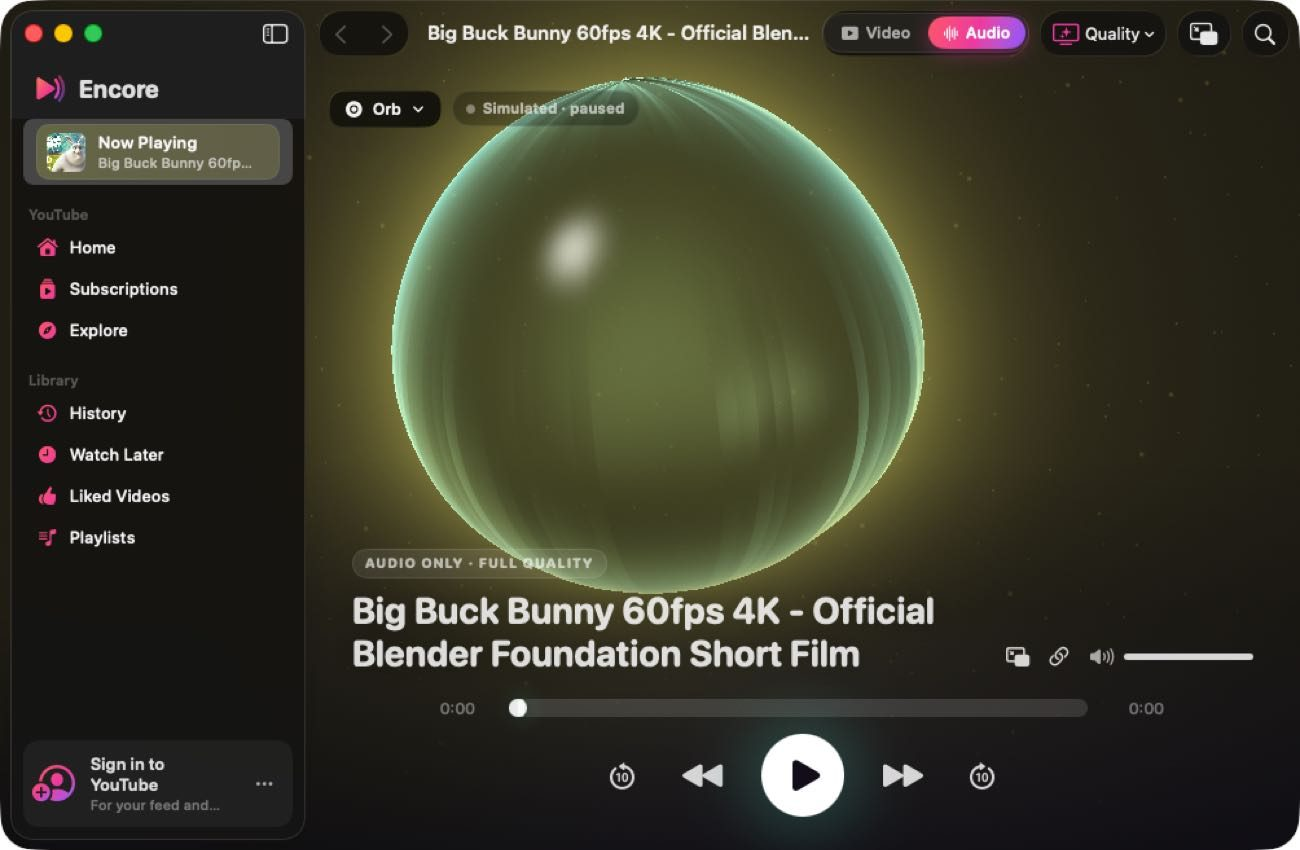
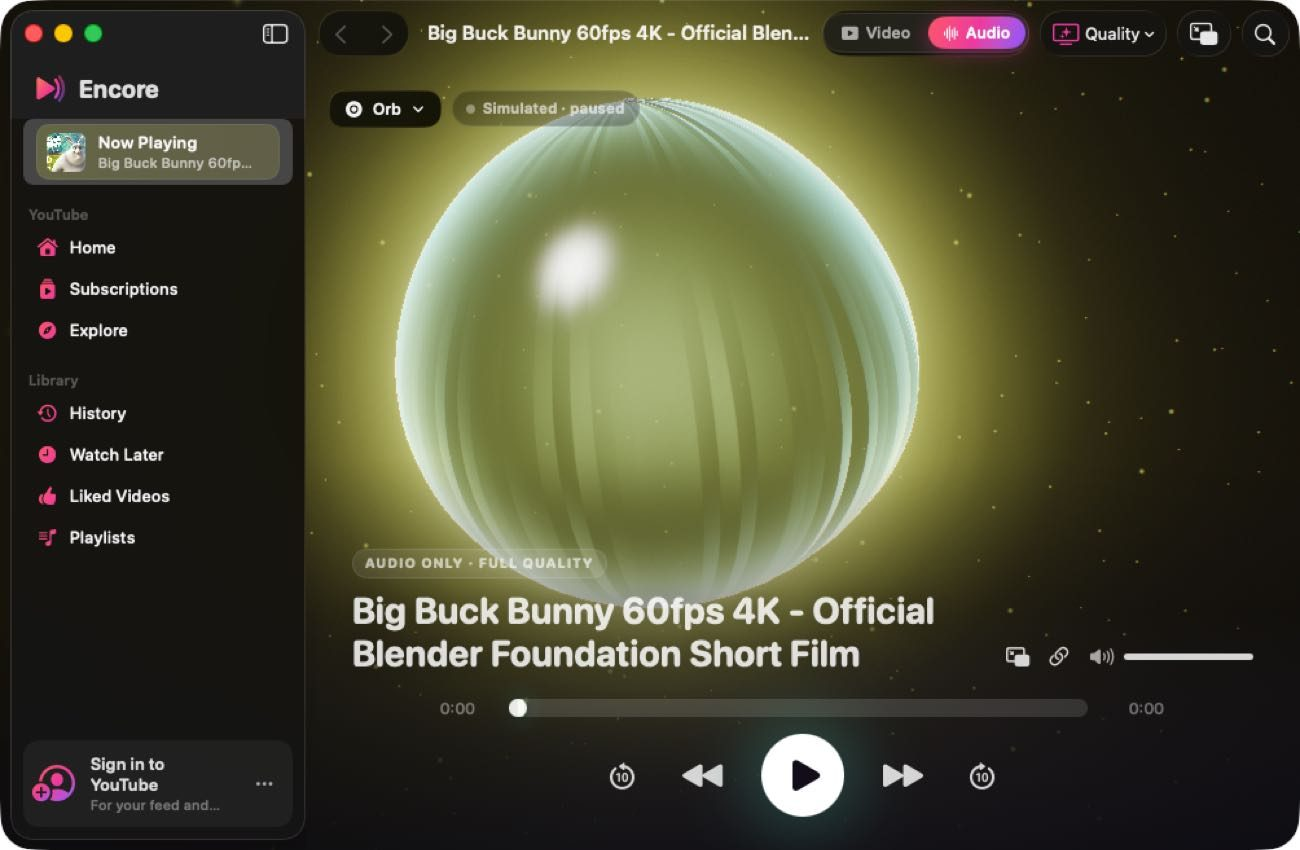
README, research notes and release notes for the new visualiser pipeline
Claude-Session: https://claude.ai/code/session_01Dq9uaYLZ14tYd3nuL5CVKq

diff --git a/README.md b/README.md
@@ -2,19 +2,17 @@
 
 <h1 align="center">Encore</h1>
 <p align="center"><b>A native YouTube player for macOS.</b><br>
-Media keys always work, even with every window closed. Video and audio modes at the highest quality YouTube offers, eight calm visualisers that move with the music, a menu bar player and a floating mini player.</p>
+Media keys always work, even with every window closed. Video and audio modes at the highest quality YouTube offers, ten visualisers that move with the music, a menu bar player and a floating mini player.</p>
 
 ---
 
 <p align="center">
-  <img src="docs/screenshots/audio-aurora.jpg" width="49%" alt="Audio mode with the Aurora visualiser">
-  <img src="docs/screenshots/audio-silk.jpg" width="49%" alt="Audio mode with the Silk visualiser">
-  <img src="docs/screenshots/audio-orb.jpg" width="49%" alt="Audio mode with the Orb visualiser">
-  <img src="docs/screenshots/audio-tide.jpg" width="49%" alt="Audio mode with the Tide visualiser">
-</p>
-<p align="center">
-  <img src="docs/screenshots/audio-halo.jpg" width="49%" alt="Audio mode with the Halo visualiser">
-  <img src="docs/screenshots/audio-spectrum.jpg" width="49%" alt="Audio mode with the Spectrum visualiser">
+  <img src="docs/screenshots/audio-flow.jpg" width="49%" alt="Flow visualiser">
+  <img src="docs/screenshots/audio-swarm.jpg" width="49%" alt="Swarm visualiser">
+  <img src="docs/screenshots/audio-halo.jpg" width="49%" alt="Halo visualiser">
+  <img src="docs/screenshots/audio-ambient.jpg" width="49%" alt="Ambient visualiser">
+  <img src="docs/screenshots/audio-aurora.jpg" width="49%" alt="Aurora visualiser">
+  <img src="docs/screenshots/audio-orb.jpg" width="49%" alt="Orb visualiser">
   <img src="docs/screenshots/video-mode.jpg" width="49%" alt="Video mode with the details drop-down">
 </p>
 <p align="center"><img src="docs/screenshots/menu-bar.jpg" width="300" alt="Menu bar player"></p>
@@ -36,7 +34,7 @@ Encore fixes that:
 |---|---|
 | **Video mode** | The video fills the window (cinema layout). Toggle back to the full YouTube page for comments and descriptions. |
 | **Audio mode** | Hides the video and keeps streaming at the highest quality YouTube offers, which brings its best audio too. A 144p data saver is available if you want it. The screen shows a full-bleed visualiser over a blurred backdrop taken from the video's artwork. |
-| **8 visualisers** | **GPU (Metal):** Aurora, Silk, Orb, Tide. **2D (SwiftUI Canvas):** Halo, Spectrum, Waves, Ridgeline. All of them follow a live frequency analysis of the sound Encore is playing, take their colours from the artwork, and move calmly. A badge shows **Live audio** or **Simulated**. |
+| **10 visualisers** | **GPU (Metal):** Flow, Swarm, Ambient, Halo, Aurora, Orb, Tide. **Minimal (Canvas):** Spectrum, Waves, Ridgeline. The GPU scenes share a film-style pipeline: feedback light trails (MilkDrop's technique), HDR bloom, ACES tonemapping, a vignette and subtle grain. Beat detection and band levels relative to the song's own average drive the motion. Colours come from the artwork, and a badge shows **Live audio** or **Simulated**. |
 | **Menu bar player** | Artwork, a live mini spectrum, scrubber, controls, the Video/Audio switch and volume. Optionally shows the track title in the menu bar. |
 | **Mini player** | A floating, always-on-top panel (⇧⌘P). It shows the video in video mode and the visualiser in audio mode. |
 | **Your YouTube** | Sign in once to get your home feed, subscriptions, history, Watch Later, liked videos and playlists. Native search with suggestions. You can paste any YouTube link. |

diff --git a/docs/RESEARCH.md b/docs/RESEARCH.md
@@ -52,3 +52,15 @@ The most thoughtful native client, though it covers YouTube Music only and needs
 | Mini player / PiP | Clicker | A floating panel that adopts the live player view |
 | Two web views | new | Browsing never interrupts playback |
 | Audio mode | new | The video is hidden while the stream stays at the highest quality for the best audio; a 144p data saver is optional |
+
+## Visualiser research (round 2)
+
+What separates premium visualisers from cheap ones:
+
+- **Feedback trails (MilkDrop / Butterchurn).** Each frame is drawn into the next through a warp (zoom, rotation and sinusoidal displacement) with a decay of about 0.98, using `(prev - 0.002) * 0.99` style fading. Butterchurn uses ping-pong framebuffers, a 48×36 warp mesh and three blur levels. → Encore's feedback pass, used by **Flow** (add mode) and by **Swarm**, **Halo** and **Tide** (max mode, so trails don't lift the background).
+- **Additive glow and particles that listen individually (Magnetosphere by Robert Hodgin).** Every particle is tied to its own FFT frequency. Particles orbit spinning orbs under attract, repel and rotational forces, and additive blending makes them glow. Version 2.0 runs millions of particles in GLSL, with orbs drawn in the shader and radiant bursts on beats. Hodgin notes that losing reliable beat detection made the iTunes port feel less responsive. → **Swarm**: 60,000 particles orbit three spinning cores, each particle driven by its own band, with Kepler-like speeds and beat bursts.
+- **Album-art ambience (Apple Music).** Colours are sampled from the artwork, then the art is warped and heavily blurred into a moving mesh gradient. → **Ambient** samples the real artwork through domain-warped coordinates at low mip levels.
+- **Film-style post-processing.** HDR rendering with a soft-knee bloom (dual-filter down/up chain), an ACES tonemap, a vignette, subtle chromatic aberration that spikes on beats, and grain or dither to avoid banding.
+- **Audio mapping.** MilkDrop's `bass/mid/treb` values sit around 1.0 at the song's recent average, with attenuated `_att` variants. → Encore's band levels are relative to a 3-second average. Beats come from spectral flux on the low bands with an adaptive threshold (1.7 × running mean + 0.04, at most one beat every 220 ms), and fast-attack, slow-release easing.
+
+Sources: geisswerks.com MilkDrop preset authoring guide; github.com/jberg/butterchurn (renderer.js, visualizer.js); roberthodgin.com (Magnetosphere, Magnetosphere 2.0, Dust); synesthesia.live.
